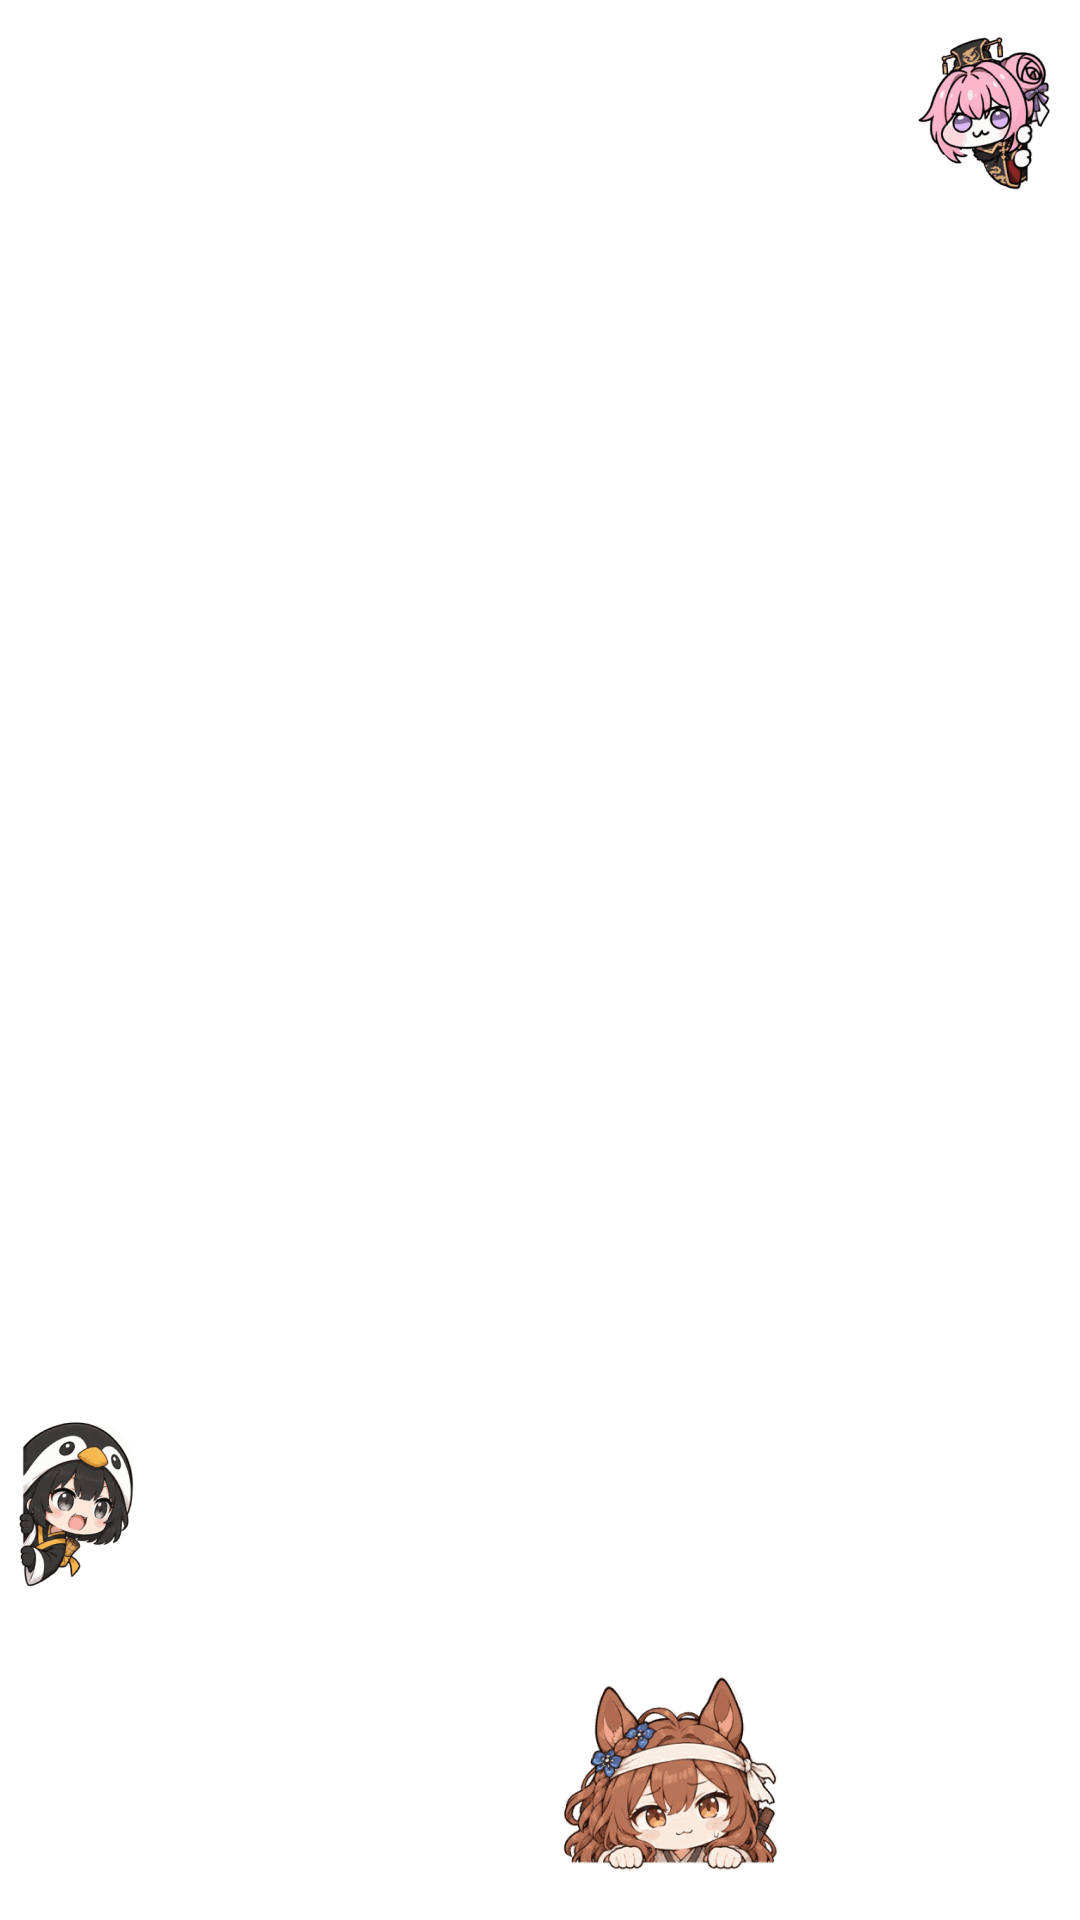
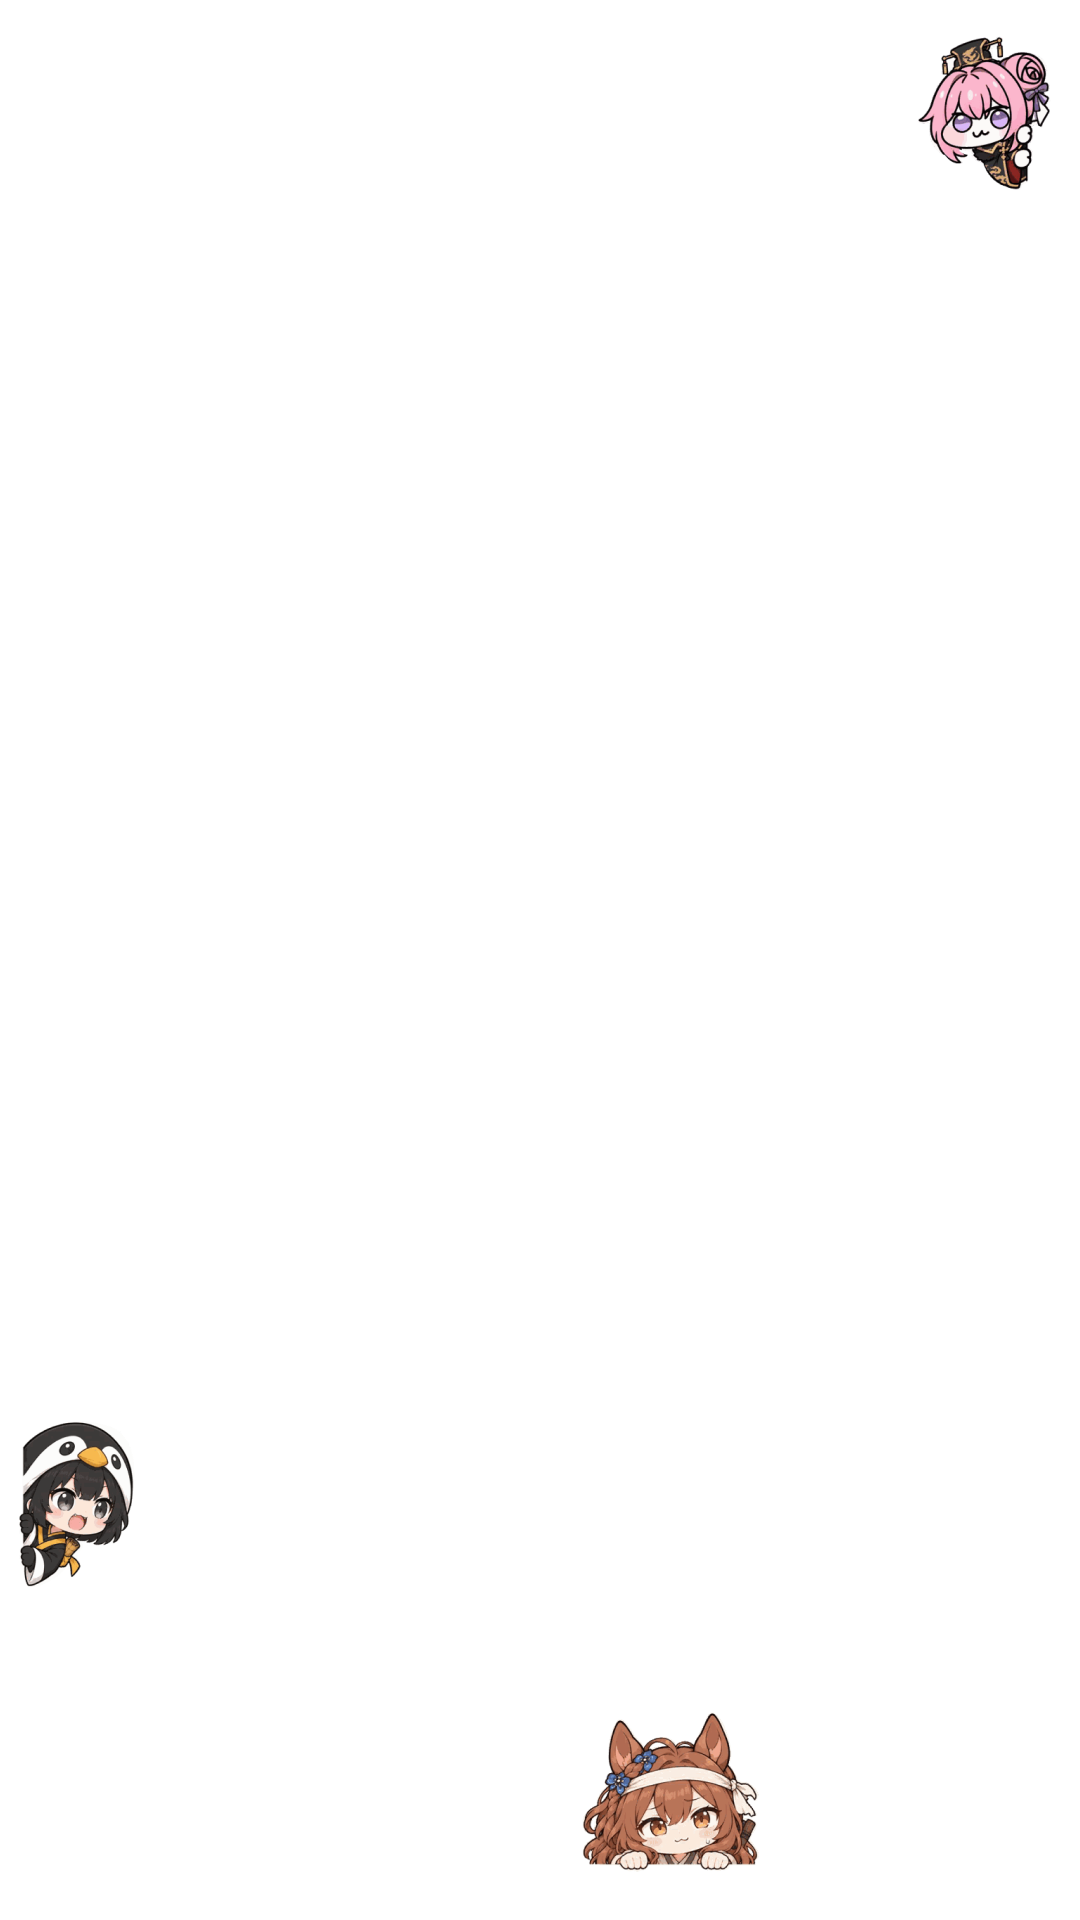
fix(template): match Mambo to 180px edge hosts

Changed region(s): [[0.5194, 0.875, 0.7333, 1.0]]

diff --git a/tools/validate_handoff.py b/tools/validate_handoff.py
@@ -43,7 +43,7 @@ CAPTION_PANEL = [130, 1416, 820, 218]
 CAPTION_TEXT = [150, 1440, 760, 128]
 CAPTION_PROFILE = "STATIC_CAPTION_PAGES_V1"
 EDGE_HOSTS = {"doro": [884, 24, 180, 180], "gugu": [-8, 1416, 180, 180],
-              "mambo": [560, 1664, 220, 220]}
+              "mambo": [580, 1702, 180, 180]}
 EDGE_ZONES = {"doro": "top_right", "gugu": "left_lower", "mambo": "bottom_center"}
 
 
@@ -307,6 +307,9 @@ def main():
     if (data["layout_template"] != template["template_id"]
             or data["caption_profile_id"] != CAPTION_PROFILE):
         raise ValueError("Manifest points at the wrong default template")
+    if {data["template_revision"], template["version"], template["template_revision"],
+            program_visuals["version"], program_visuals["template_revision"]} != {"3.2.1"}:
+        raise ValueError("Template revision must match 3.2.1 independently of the unchanged PRD version")
     prd_title = (ROOT / "PRD_V7.md").read_text(encoding="utf-8").splitlines()[0]
     prd_match = re.search(r"\bPRD V(\d+\.\d+)\b", prd_title)
     if not prd_match:

diff --git a/PROJECT_STATE.md b/PROJECT_STATE.md
@@ -7,7 +7,7 @@
 | 统一规范 | PRD V7.14；保留首次初始化、本地续作、规范更新，独立运营另有入口 | 老电脑直接用本地文件；新电脑首次或明确规范更新才访问仓库 |
 | 账号与主页 | 三只不服；用户确认主页装修已完成 | 沿用，不重新命名或装修 |
 | 三位演员身份 | 三位原有Q版本人演故事；已补齐统一参考清单与验收规则 | 读取spec/character_identity.json，每位出镜者实际输入身份图；成人化、换脸或仅保留装饰均不通过 |
-| 固定模板 | 新任务默认RYP_STORY_MAIN_V3_2；每图常驻主题、去顶部冗余品牌、三位分散扒边 | 当前spec＋assets/template/v3_2/；旧V2在spec/legacy/v2/与原资产目录保留兼容 |
+| 固定模板 | 新任务默认RYP_STORY_MAIN_V3_2，模板修订3.2.1，三位装饰统一180×180；每图常驻主题、去顶部冗余品牌、三位分散扒边 | 当前spec＋assets/template/v3_2/；旧V2在spec/legacy/v2/与原资产目录保留兼容 |
 | 秦始皇 | 已有用户剪辑版本，暂无返修任务 | 不恢复旧A/B或GUI整片流程 |
 | 武松 | 27.3秒成片已完成，画面字幕及技术检查通过 | 不重做；实际听审和发布由用户负责 |
 | 发布数据 | 已进入公开作品发布与真实运营复盘阶段 | 动态数值、逐作品分析和评论见当次运营台账，不固定作品数，不用旧数据冒充当前值 |

diff --git a/CHANGELOG.md b/CHANGELOG.md
@@ -1,5 +1,10 @@
 # 更新记录
 
+## 2026-10-05｜模板修订3.2.1：曼波统一180×180
+
+- 保留PRD V7.14与RYP_STORY_MAIN_V3_2，只将底部曼波改为x580/y1702/180×180，与另两位一致；水平中心x670和手扒y1872保持。
+- 仅重导透明角色层并同步几何与hash；10张底板、漫画、字幕、出处、锁稿及分页不变。接续同时核对template_revision=3.2.1与实际曼波坐标，不能仅凭PRD同号判断已升级。
+
 ## 2026-10-05｜V7.14不同方位环抱整版V3.2
 
 - 三位装饰恢复右上、左下、底部不同高度环抱整张模板，禁止同一排集中；原主画窗与文字alpha零相交继续执行。
